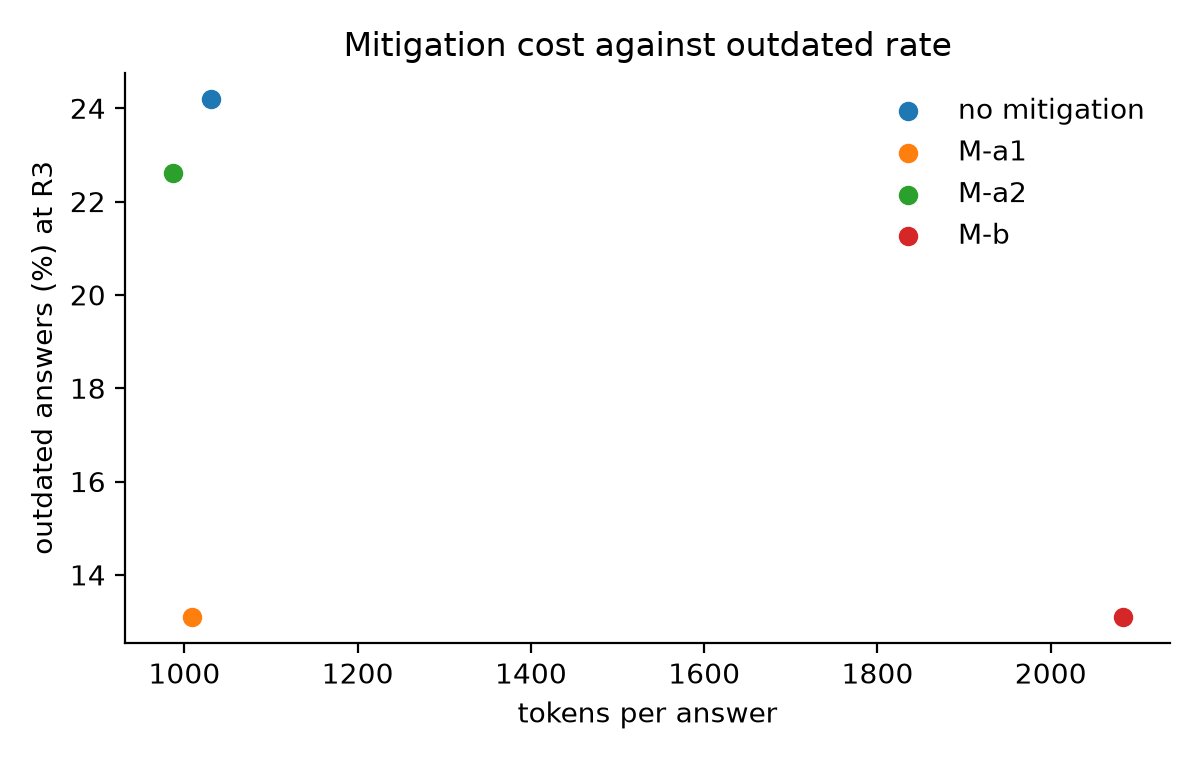
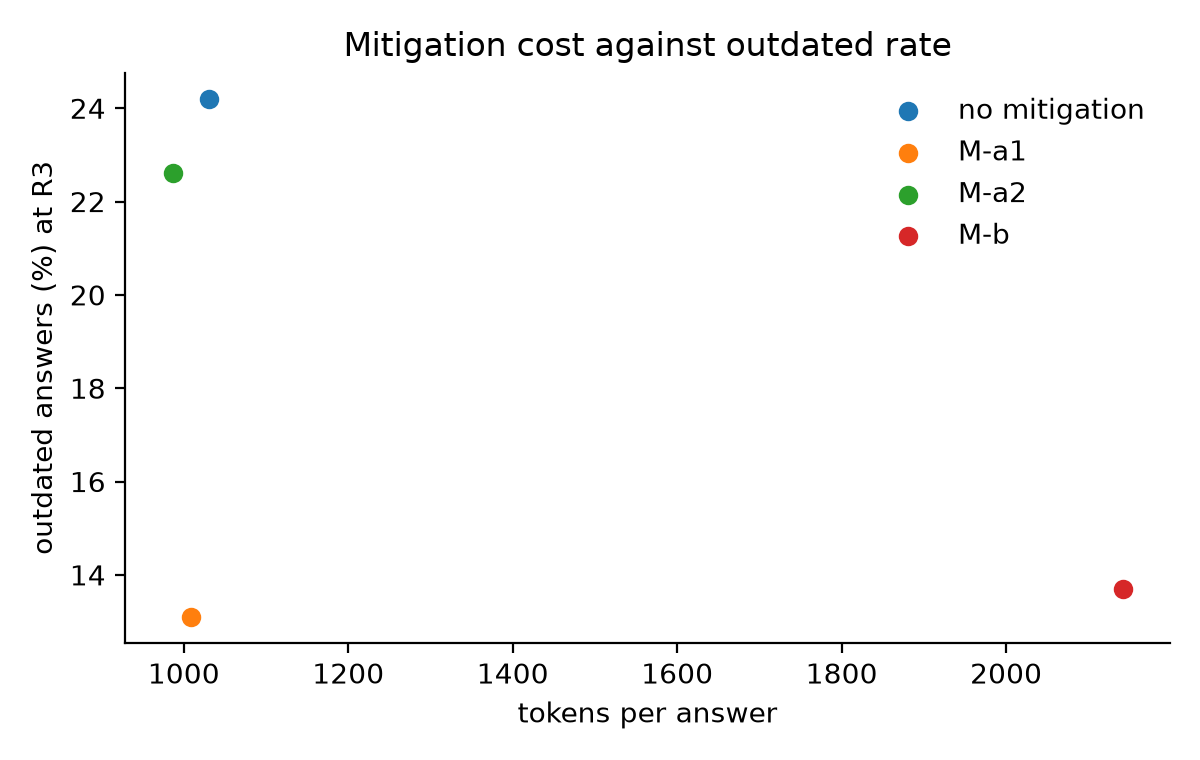
docs: R3 mitigation results, restricted H1/H3 analysis proposal, correction on R3 context

diff --git a/src/policydrift/analysis/report.py b/src/policydrift/analysis/report.py
@@ -74,11 +74,17 @@ def label_distribution(rows: Sequence[Row]) -> str:
     return md_table(["mitigation", "cond", "model", "n", *LABELS, "missing", "outdated rate"], body)
 
 
-def h1_table(rows: Sequence[Row]) -> str:
-    """Pooled outdated rate per condition, fact-cluster bootstrap CI, and the tau rule."""
+def h1_table(rows: Sequence[Row], *, with_current_only: bool = True) -> str:
+    """Pooled outdated rate per condition, fact-cluster bootstrap CI, and the tau rule.
+
+    With ``with_current_only`` only answers whose retrieved context states the current value are
+    counted, which is what H1 ("even with the current rule retrieved") is about.
+    """
     out = []
     for cond in ("R2", "R3"):
         g = _select(rows, mitigation="none", condition=cond)
+        if with_current_only:
+            g = [r for r in g if r.has_current]
         if not g:
             continue
         rate, lo, hi = cluster_bootstrap_ci(outdated(g), [r.fact_id for r in g])
@@ -180,9 +186,16 @@ def _latency(rows: Sequence[Row]) -> str:
     return f"{statistics.median(xs):.1f} / {p90:.1f}"
 
 
-def h3_table(rows: Sequence[Row], condition: str = "R3") -> str:
-    """Each mitigation against the baseline at ``condition``, on matched answers."""
+def h3_table(rows: Sequence[Row], condition: str = "R3", *, with_current_only: bool = True) -> str:
+    """Each mitigation against the baseline at ``condition``, on matched answers.
+
+    With ``with_current_only`` pairs whose baseline context lacks the current value are dropped:
+    there a prompt or checker has nothing to find (the retrieval failed), and that is reported
+    separately.
+    """
     base_all = _select(rows, mitigation="none", condition=condition)
+    if with_current_only:
+        base_all = [r for r in base_all if r.has_current]
     stats: list[dict[str, object]] = []
     ps: list[float] = []
     for mit in MITIGATIONS:
@@ -375,8 +388,10 @@ def build_paper(rows: Sequence[Row], out_dir: Path, title: str) -> list[Path]:
     parts = {
         "label_distribution": label_distribution(rows),
         "h1": h1_table(rows),
+        "h1_all_answers": h1_table(rows, with_current_only=False),
         "h2": h2_table(rows),
         "h3_r3": h3_table(rows, "R3"),
+        "h3_r3_all_answers": h3_table(rows, "R3", with_current_only=False),
         "mitigations_r1_descriptive": r1_descriptive_table(rows),
         "per_fact": per_fact_table(rows),
     }

diff --git a/docs/preregistration.md b/docs/preregistration.md
@@ -47,7 +47,7 @@ Mitigations (§7 below gives the tests):
 | M-c | Version-filtered retrieval: keeps only chunks whose effective window contains the as-of date | R1 (descriptive; not defined for R3, which already selects versions) |
 | — | Robustness: dates missing or wrong in the metadata, for M-a2 and M-c | Exploratory |
 
-**Confirmatory condition for mitigations (decided 2026-11-05, before any test-split run).** Mitigations are confirmed at **R3**, not R1. Reason, from the dev split: at R1 the current-version chunk was absent from the retrieved context in 38 of 40 stale baseline answers (the stale answers are retrieval failures on a few facts, chiefly the two SVANidhi loan facts), so a mitigation that acts on the prompt or on the answer cannot be tested there; at R3 the current chunk is guaranteed present and the dev baseline stale rate is 17-31% across models. R1 results for all mitigations, M-c at R1 (which removes stale chunks by construction and is an upper bound that depends on correct effective dates), and the current-chunk recall at k=4 and k=8 per fact are **descriptive**. Retrieval recall is reported per fact, not pooled.
+**Confirmatory condition for mitigations (decided 2026-11-05, before any test-split run).** Mitigations are confirmed at **R3**, not R1. Reason, from the dev split: at R1 the current-version chunk was absent from the retrieved context in 38 of 40 stale baseline answers (the stale answers are retrieval failures on a few facts, chiefly the two SVANidhi loan facts), so a mitigation that acts on the prompt or on the answer cannot be tested there; at R3 both versions are retrieved and the dev baseline stale rate is 17-31% across models. Correction (2026-11-05): R3 does not guarantee that the context states the current value. On dev it does for 67 of 84 R3 answers per model; for three facts (PMUY refills, both SVANidhi loans) the top-2 current-version chunks do not contain it, and those facts are stale in nearly every answer at every condition. R1 results for all mitigations, M-c at R1 (which removes stale chunks by construction and is an upper bound that depends on correct effective dates), and the current-chunk recall at k=4 and k=8 per fact are **descriptive**. Retrieval recall is reported per fact, not pooled.
 
 **Passage language (decided 2026-11-03 from the dev baseline).** In the first dev baseline, Hindi and Gujarati questions in R3 mostly received English passages (the old version often has no hi/gu source), while R1 and R2 received same-language passages, and 52 of 56 X prompts were identical to R3. That confounded the language comparison with the documents shown. Confirmatory conditions (R0–R4) therefore use English passages for every question language (`doc_language: english`), so H2 changes only the question language. Same-language passages where they exist are an exploratory run (`doc_language: native`, `configs/experiments/dev-native.yaml`).
 
@@ -76,6 +76,8 @@ Each model's R0 answer to each item is labelled `knows_old`, `knows_current` or 
   - **Settled 2026-11-03 (draft, before any test run):** κ target kept at κ ≥ 0.80. If the target is missed, everything the judge decided is labelled by humans instead. Answers the judge cannot parse are labelled `unresolved` and reported, never silently dropped.
 
 ### 5. H1 decision rule (confirmatory)
+**PROPOSED, awaiting the owner's decision before the freeze (2026-11-05):** H1 says stale answers occur *even with the current rule retrieved*, so the primary H1 and H3 analyses count only answers whose retrieved context states the current value (`context_has_current`, set by retrieval before the model answers, identical across arms). The same tables over all answers are reported as a sensitivity analysis, together with the share of answers where retrieval failed. On dev this choice matters: R3 outdated rate 10.0% (95% CI 1.1% to 20.4%, below tau at the lower bound) with the current value in context, against 24.2% (8.7% to 42.5%) over all answers. It is chosen from H1's wording, not to obtain a result, and it would be chosen the same way if the test split came out the other way.
+
 H1 is tested separately in R2 and R3, on outdated rates pooled across models and languages. The 95% CI comes from a cluster bootstrap with 10,000 resamples, resampling whole facts (all items, languages and models of a fact stay together; revised 2026-11-05 from "over items", because the same fact is asked in several wordings). H1 is supported in a condition if the CI's lower bound is above the threshold *τ* after Holm correction across the two conditions. Per-model and per-language rates are reported alongside.
 - **Settled 2026-11-03 (draft, before any test run):** τ = 2% kept. In English with only up-to-date evidence, Stale-Document Poisoning found models failed to follow it in about 0–3% of trials. A 2% threshold separates a real effect from scorer noise without assuming a large one.
 

diff --git a/docs/phase4_dev_results.md b/docs/phase4_dev_results.md
@@ -1,4 +1,4 @@
-# Phase 4 dev results (draft, 2026-11-05, revision 2)
+# Phase 4 dev results (draft, 2026-11-05, revision 3)
 
 Dev split only (28 items x en/hi/gu = 84 answers per model, R1 = standard top-k over the whole store, English passages for every question language). Nothing here was run on the test split. These are tuning-stage numbers, not confirmatory results.
 
@@ -102,3 +102,36 @@ M-c with deliberately corrupted effective dates (hash-chosen chunks, seed 202611
 - Judge calibration rests on 45 dev answers from a single labeller with only 3 outdated positives; it needs a second labeller and more positives before the judge numbers are relied on. The labelling sheet should be re-sampled to over-represent outdated and "other" answers, and duplicates dropped.
 - Latency and cost use uncached calls only, in Phase 5.
 - Not run: M-a2 for gpt-oss-20b and the secondary R3 mitigation runs.
+
+## 9. R3 mitigation runs (revision 3; confirmatory condition for H3)
+
+Run after the external review, on dev, for the two Gemini models (gpt-oss-20b R3 mitigation runs were not completed: Groq's free tier was too slow). All tables are regenerated by `uv run policydrift paper` into `paper/dev/`.
+
+**The current value is not always in the R3 context.** R3 retrieves the top-2 chunks of each version, but for three facts (PMUY refills, SVANidhi first and second loan) those chunks never state the current value (0 of 6, 0 of 6 and 1 of 6 answers per model); the context states it for 67 of 84 answers. Those facts are stale in nearly every answer at every condition, so they inflate the R3 rate without saying anything about models overriding a retrieved rule. Pooled over the two Gemini models, R3 baseline outdated rate:
+
+| Answers counted | n | Outdated | 95% CI (bootstrap over facts) | CI lower bound above tau = 2% |
+|---|---|---|---|---|
+| All R3 answers | 252 (3 models) | 24.2% | [8.7%, 42.5%] | yes |
+| Only answers whose context states the current value | 201 (3 models) | 10.0% | [1.1%, 20.4%] | no |
+
+R2 (current version only) is 0.0% in both. So on dev H1 holds in the loose sense (stale answers occur at R3), and fails the tau rule when counting only answers where the current value was in the context. The test split decides; the dev numbers are not a result.
+
+**Mitigations at R3 (Gemini models, matched answers, one-sided exact McNemar, Holm over three):**
+
+| Mitigation | Counting | n | Baseline | With | Fixed / broke | p (Holm) | Calls | Tokens |
+|---|---|---|---|---|---|---|---|---|
+| M-a1 date stamp | context has current value | 134 | 6.7% | 0.0% | 9 / 0 | 0.006 | 1.0 | 1.0x |
+| M-a2 validity statement | same | 134 | 6.7% | 9.0% | 1 / 4 | 0.97 | 1.0 | 1.0x |
+| M-b checker | same | 134 | 6.7% | 0.0% | 9 / 0 | 0.006 | 2.1 | 2.2x |
+| M-a1 | all answers | 168 | 20.8% | 13.1% | 13 / 0 | 0.0004 | 1.0 | 1.0x |
+| M-a2 | all answers | 168 | 20.8% | 22.6% | 2 / 5 | 0.94 | 1.0 | 1.0x |
+| M-b | all answers | 168 | 20.8% | 13.7% | 13 / 1 | 0.002 | 2.1 | 2.2x |
+
+- **The earlier "prompt-only hints do not work" was an R1 artefact.** At R3, where the current value is in the context, the date-stamped prompt (M-a1) fixes every stale answer it can reach at no extra cost, and it does as well as the conflict checker at half the cost. M-a2 (validity statement) does nothing useful.
+- Refusals do not rise under M-a1 or M-b (6.0% against 6.7% baseline), and correct answers rise (85% to 94%), unlike M-c at R1 where refusals rise to 13%.
+- Bootstrap intervals over 14 facts are wide: the upper bound of the change touches 0.0% for M-a1 and M-b. Treat them as descriptive on dev.
+- The M-a1 effect is on 9 answers from a handful of facts (PMAY, PMUY subsidy). It needs the test split to say whether it generalises.
+
+**R1, descriptive (all three models):** M-c 17.9% to 0.0% with 13.1% refusals; M-b 17.5% to 10.4% (9.6% refusals, 2.2x tokens); M-a1 17.9% to 18.3%; M-a2 18.5% to 17.3%.
+
+**Calibration:** a second, stratified labelling sheet (60 answers: 24 outdated, 15 current, 12 other, 9 refusal by automatic label, no duplicates, none from the first sheet) is at `data/benchmark/judge_validation/dev-pool-round2.csv`. It needs a human; 56 of the 60 were decided by the matcher, so it mainly checks the rare classes.

diff --git a/paper/dev/results.md b/paper/dev/results.md
@@ -16,6 +16,7 @@
 | M-b | R1 | gemini-35-flash-lite | 84 | 65 | 9 | 9 | 1 | 0 | 10.7% |
 | M-b | R1 | gemini-flash-lite | 83 | 67 | 9 | 7 | 0 | 1 | 10.8% |
 | M-b | R1 | groq-gpt-oss-20b | 84 | 68 | 8 | 8 | 0 | 0 | 9.5% |
+| M-b | R3 | gemini-35-flash-lite | 84 | 65 | 12 | 6 | 1 | 0 | 14.3% |
 | M-b | R3 | gemini-flash-lite | 84 | 70 | 11 | 3 | 0 | 0 | 13.1% |
 | M-c | R1 | gemini-35-flash-lite | 84 | 73 | 0 | 11 | 0 | 0 | 0.0% |
 | M-c | R1 | gemini-flash-lite | 84 | 72 | 0 | 11 | 1 | 0 | 0.0% |
@@ -37,6 +38,33 @@
 | none | R4 | groq-gpt-oss-20b | 70 | 53 | 16 | 0 | 1 | 0 | 22.9% |
 
 ## h1
+
+| condition | n | outdated rate | 95% CI (bootstrap over facts) | CI lower > 2% |
+|---|---|---|---|---|
+| R2 | 206 | 0.0% | [0.0%, 0.0%] | no |
+| R3 | 201 | 10.0% | [1.1%, 20.4%] | no |
+
+Per model:
+
+| condition | model | n | outdated rate |
+|---|---|---|---|
+| R0 | gemini-35-flash-lite | 84 | 47.6% |
+| R0 | gemini-flash-lite | 84 | 66.7% |
+| R0 | groq-gpt-oss-20b | 69 | 62.3% |
+| R1 | gemini-35-flash-lite | 84 | 19.0% |
+| R1 | gemini-flash-lite | 84 | 17.9% |
+| R1 | groq-gpt-oss-20b | 84 | 16.7% |
+| R2 | gemini-35-flash-lite | 84 | 0.0% |
+| R2 | gemini-flash-lite | 79 | 0.0% |
+| R2 | groq-gpt-oss-20b | 67 | 0.0% |
+| R3 | gemini-35-flash-lite | 84 | 25.0% |
+| R3 | gemini-flash-lite | 84 | 16.7% |
+| R3 | groq-gpt-oss-20b | 84 | 31.0% |
+| R4 | gemini-35-flash-lite | 84 | 28.6% |
+| R4 | gemini-flash-lite | 84 | 29.8% |
+| R4 | groq-gpt-oss-20b | 70 | 22.9% |
+
+## h1_all_answers
 
 | condition | n | outdated rate | 95% CI (bootstrap over facts) | CI lower > 2% |
 |---|---|---|---|---|
@@ -82,9 +110,17 @@ Mixed-effects logistic regression (preregistration §6) is not fitted here; the 
 
 | mitigation | n | baseline | with | fixed / broke | change [95% CI, facts] | p (one-sided) | p Holm | refusals | current | calls | tokens/answer | latency median / p90 s (uncached) |
 |---|---|---|---|---|---|---|---|---|---|---|---|---|
+| M-a1 | 134 | 6.7% | 0.0% | 9 / 0 | -6.7% [-16.7%, 0.0%] | 0.0020 | 0.0059 | 6.0% (base 6.7%) | 94.0% (base 85.1%) | 1.00 | 1009 (1.0x) | 1.7 / 8.8 |
+| M-a2 | 134 | 6.7% | 9.0% | 1 / 4 | 2.2% [-1.4%, 6.5%] | 0.9688 | 0.9688 | 5.2% (base 6.7%) | 85.8% (base 85.1%) | 1.00 | 989 (1.0x) | 1.2 / 6.5 |
+| M-b | 134 | 6.7% | 0.0% | 9 / 0 | -6.7% [-16.7%, 0.0%] | 0.0020 | 0.0059 | 6.0% (base 6.7%) | 93.3% (base 85.1%) | 2.12 | 2137 (2.2x) | 1.5 / 7.7 |
+
+## h3_r3_all_answers
+
+| mitigation | n | baseline | with | fixed / broke | change [95% CI, facts] | p (one-sided) | p Holm | refusals | current | calls | tokens/answer | latency median / p90 s (uncached) |
+|---|---|---|---|---|---|---|---|---|---|---|---|---|
 | M-a1 | 168 | 20.8% | 13.1% | 13 / 0 | -7.7% [-16.7%, 0.0%] | 0.0001 | 0.0004 | 6.0% (base 5.4%) | 80.4% (base 72.0%) | 1.00 | 1009 (1.0x) | 1.7 / 8.8 |
 | M-a2 | 168 | 20.8% | 22.6% | 2 / 5 | 1.8% [-1.2%, 4.8%] | 0.9375 | 0.9375 | 4.2% (base 5.4%) | 72.0% (base 72.0%) | 1.00 | 987 (1.0x) | 1.2 / 6.5 |
-| M-b | 84 | 16.7% | 13.1% | 3 / 0 | -3.6% [-7.1%, 0.0%] | 0.1250 | 0.2500 | 3.6% (base 4.8%) | 83.3% (base 78.6%) | 2.07 | 2083 (2.2x) | 0.9 / 1.2 |
+| M-b | 168 | 20.8% | 13.7% | 13 / 1 | -7.1% [-16.1%, 0.0%] | 0.0009 | 0.0018 | 5.4% (base 5.4%) | 80.4% (base 72.0%) | 2.12 | 2142 (2.2x) | 1.5 / 7.7 |
 
 ## mitigations_r1_descriptive
 

diff --git a/paper/dev/tables/h3_r3.md b/paper/dev/tables/h3_r3.md
@@ -1,5 +1,5 @@
 | mitigation | n | baseline | with | fixed / broke | change [95% CI, facts] | p (one-sided) | p Holm | refusals | current | calls | tokens/answer | latency median / p90 s (uncached) |
 |---|---|---|---|---|---|---|---|---|---|---|---|---|
-| M-a1 | 168 | 20.8% | 13.1% | 13 / 0 | -7.7% [-16.7%, 0.0%] | 0.0001 | 0.0004 | 6.0% (base 5.4%) | 80.4% (base 72.0%) | 1.00 | 1009 (1.0x) | 1.7 / 8.8 |
-| M-a2 | 168 | 20.8% | 22.6% | 2 / 5 | 1.8% [-1.2%, 4.8%] | 0.9375 | 0.9375 | 4.2% (base 5.4%) | 72.0% (base 72.0%) | 1.00 | 987 (1.0x) | 1.2 / 6.5 |
-| M-b | 84 | 16.7% | 13.1% | 3 / 0 | -3.6% [-7.1%, 0.0%] | 0.1250 | 0.2500 | 3.6% (base 4.8%) | 83.3% (base 78.6%) | 2.07 | 2083 (2.2x) | 0.9 / 1.2 |
+| M-a1 | 134 | 6.7% | 0.0% | 9 / 0 | -6.7% [-16.7%, 0.0%] | 0.0020 | 0.0059 | 6.0% (base 6.7%) | 94.0% (base 85.1%) | 1.00 | 1009 (1.0x) | 1.7 / 8.8 |
+| M-a2 | 134 | 6.7% | 9.0% | 1 / 4 | 2.2% [-1.4%, 6.5%] | 0.9688 | 0.9688 | 5.2% (base 6.7%) | 85.8% (base 85.1%) | 1.00 | 989 (1.0x) | 1.2 / 6.5 |
+| M-b | 134 | 6.7% | 0.0% | 9 / 0 | -6.7% [-16.7%, 0.0%] | 0.0020 | 0.0059 | 6.0% (base 6.7%) | 93.3% (base 85.1%) | 2.12 | 2137 (2.2x) | 1.5 / 7.7 |

diff --git a/paper/dev/tables/h1_all_answers.md b/paper/dev/tables/h1_all_answers.md
@@ -1,0 +1,24 @@
+| condition | n | outdated rate | 95% CI (bootstrap over facts) | CI lower > 2% |
+|---|---|---|---|---|
+| R2 | 230 | 0.0% | [0.0%, 0.0%] | no |
+| R3 | 252 | 24.2% | [8.7%, 42.5%] | yes |
+
+Per model:
+
+| condition | model | n | outdated rate |
+|---|---|---|---|
+| R0 | gemini-35-flash-lite | 84 | 47.6% |
+| R0 | gemini-flash-lite | 84 | 66.7% |
+| R0 | groq-gpt-oss-20b | 69 | 62.3% |
+| R1 | gemini-35-flash-lite | 84 | 19.0% |
+| R1 | gemini-flash-lite | 84 | 17.9% |
+| R1 | groq-gpt-oss-20b | 84 | 16.7% |
+| R2 | gemini-35-flash-lite | 84 | 0.0% |
+| R2 | gemini-flash-lite | 79 | 0.0% |
+| R2 | groq-gpt-oss-20b | 67 | 0.0% |
+| R3 | gemini-35-flash-lite | 84 | 25.0% |
+| R3 | gemini-flash-lite | 84 | 16.7% |
+| R3 | groq-gpt-oss-20b | 84 | 31.0% |
+| R4 | gemini-35-flash-lite | 84 | 28.6% |
+| R4 | gemini-flash-lite | 84 | 29.8% |
+| R4 | groq-gpt-oss-20b | 70 | 22.9% |

diff --git a/paper/dev/tables/h3_r3_all_answers.md b/paper/dev/tables/h3_r3_all_answers.md
@@ -1,0 +1,5 @@
+| mitigation | n | baseline | with | fixed / broke | change [95% CI, facts] | p (one-sided) | p Holm | refusals | current | calls | tokens/answer | latency median / p90 s (uncached) |
+|---|---|---|---|---|---|---|---|---|---|---|---|---|
+| M-a1 | 168 | 20.8% | 13.1% | 13 / 0 | -7.7% [-16.7%, 0.0%] | 0.0001 | 0.0004 | 6.0% (base 5.4%) | 80.4% (base 72.0%) | 1.00 | 1009 (1.0x) | 1.7 / 8.8 |
+| M-a2 | 168 | 20.8% | 22.6% | 2 / 5 | 1.8% [-1.2%, 4.8%] | 0.9375 | 0.9375 | 4.2% (base 5.4%) | 72.0% (base 72.0%) | 1.00 | 987 (1.0x) | 1.2 / 6.5 |
+| M-b | 168 | 20.8% | 13.7% | 13 / 1 | -7.1% [-16.1%, 0.0%] | 0.0009 | 0.0018 | 5.4% (base 5.4%) | 80.4% (base 72.0%) | 2.12 | 2142 (2.2x) | 1.5 / 7.7 |

diff --git a/paper/dev/tables/label_distribution.md b/paper/dev/tables/label_distribution.md
@@ -12,6 +12,7 @@
 | M-b | R1 | gemini-35-flash-lite | 84 | 65 | 9 | 9 | 1 | 0 | 10.7% |
 | M-b | R1 | gemini-flash-lite | 83 | 67 | 9 | 7 | 0 | 1 | 10.8% |
 | M-b | R1 | groq-gpt-oss-20b | 84 | 68 | 8 | 8 | 0 | 0 | 9.5% |
+| M-b | R3 | gemini-35-flash-lite | 84 | 65 | 12 | 6 | 1 | 0 | 14.3% |
 | M-b | R3 | gemini-flash-lite | 84 | 70 | 11 | 3 | 0 | 0 | 13.1% |
 | M-c | R1 | gemini-35-flash-lite | 84 | 73 | 0 | 11 | 0 | 0 | 0.0% |
 | M-c | R1 | gemini-flash-lite | 84 | 72 | 0 | 11 | 1 | 0 | 0.0% |

diff --git a/paper/dev/tables/h1.md b/paper/dev/tables/h1.md
@@ -1,7 +1,7 @@
 | condition | n | outdated rate | 95% CI (bootstrap over facts) | CI lower > 2% |
 |---|---|---|---|---|
-| R2 | 230 | 0.0% | [0.0%, 0.0%] | no |
-| R3 | 252 | 24.2% | [8.7%, 42.5%] | yes |
+| R2 | 206 | 0.0% | [0.0%, 0.0%] | no |
+| R3 | 201 | 10.0% | [1.1%, 20.4%] | no |
 
 Per model:
 
